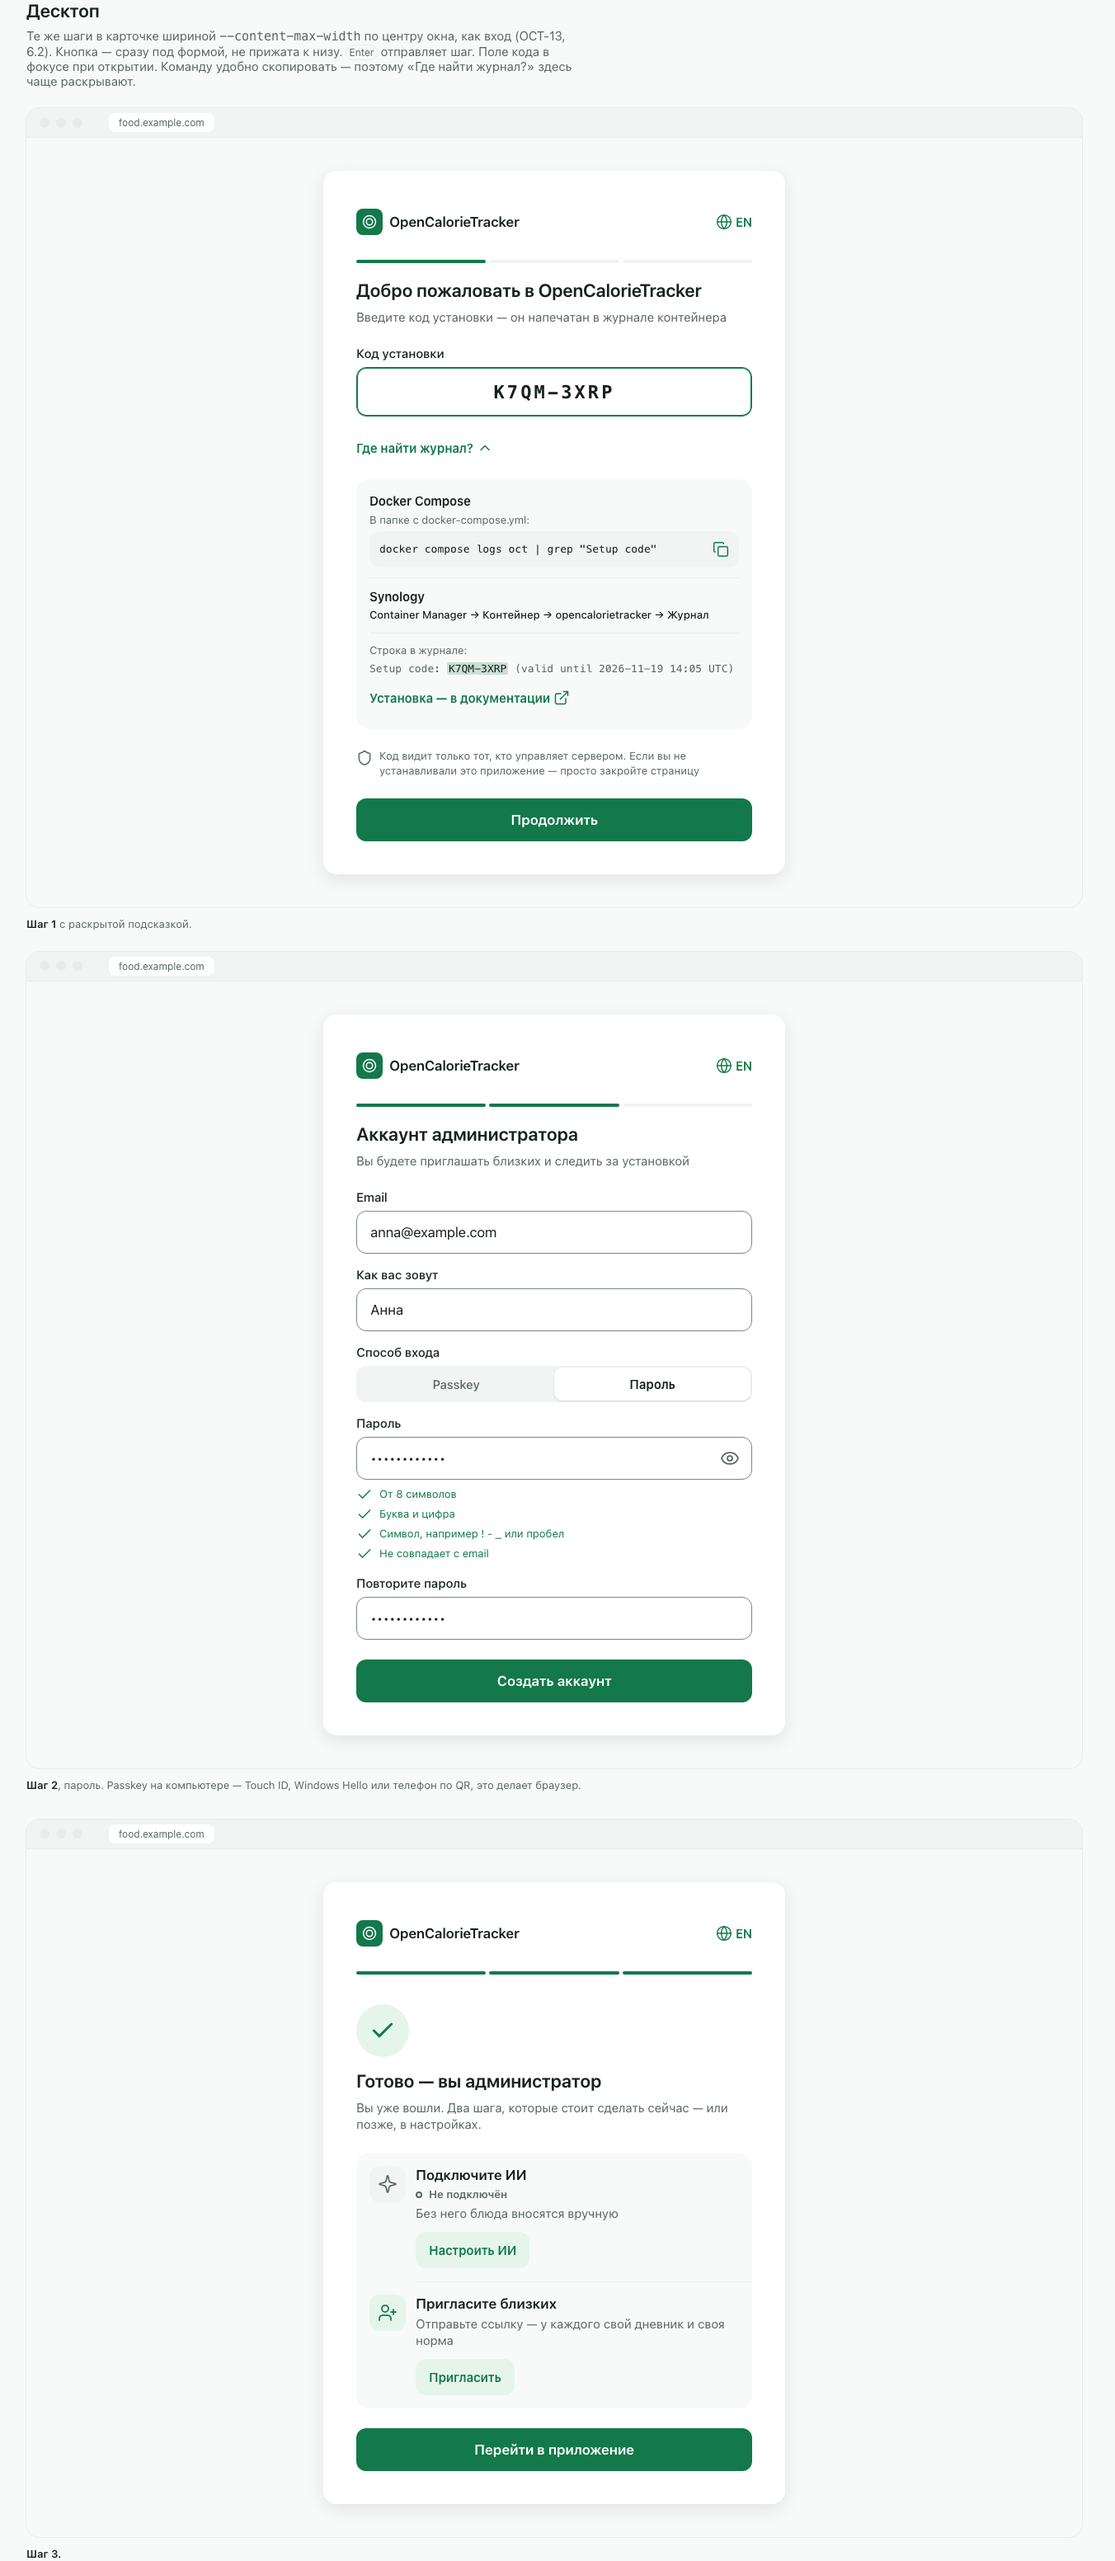
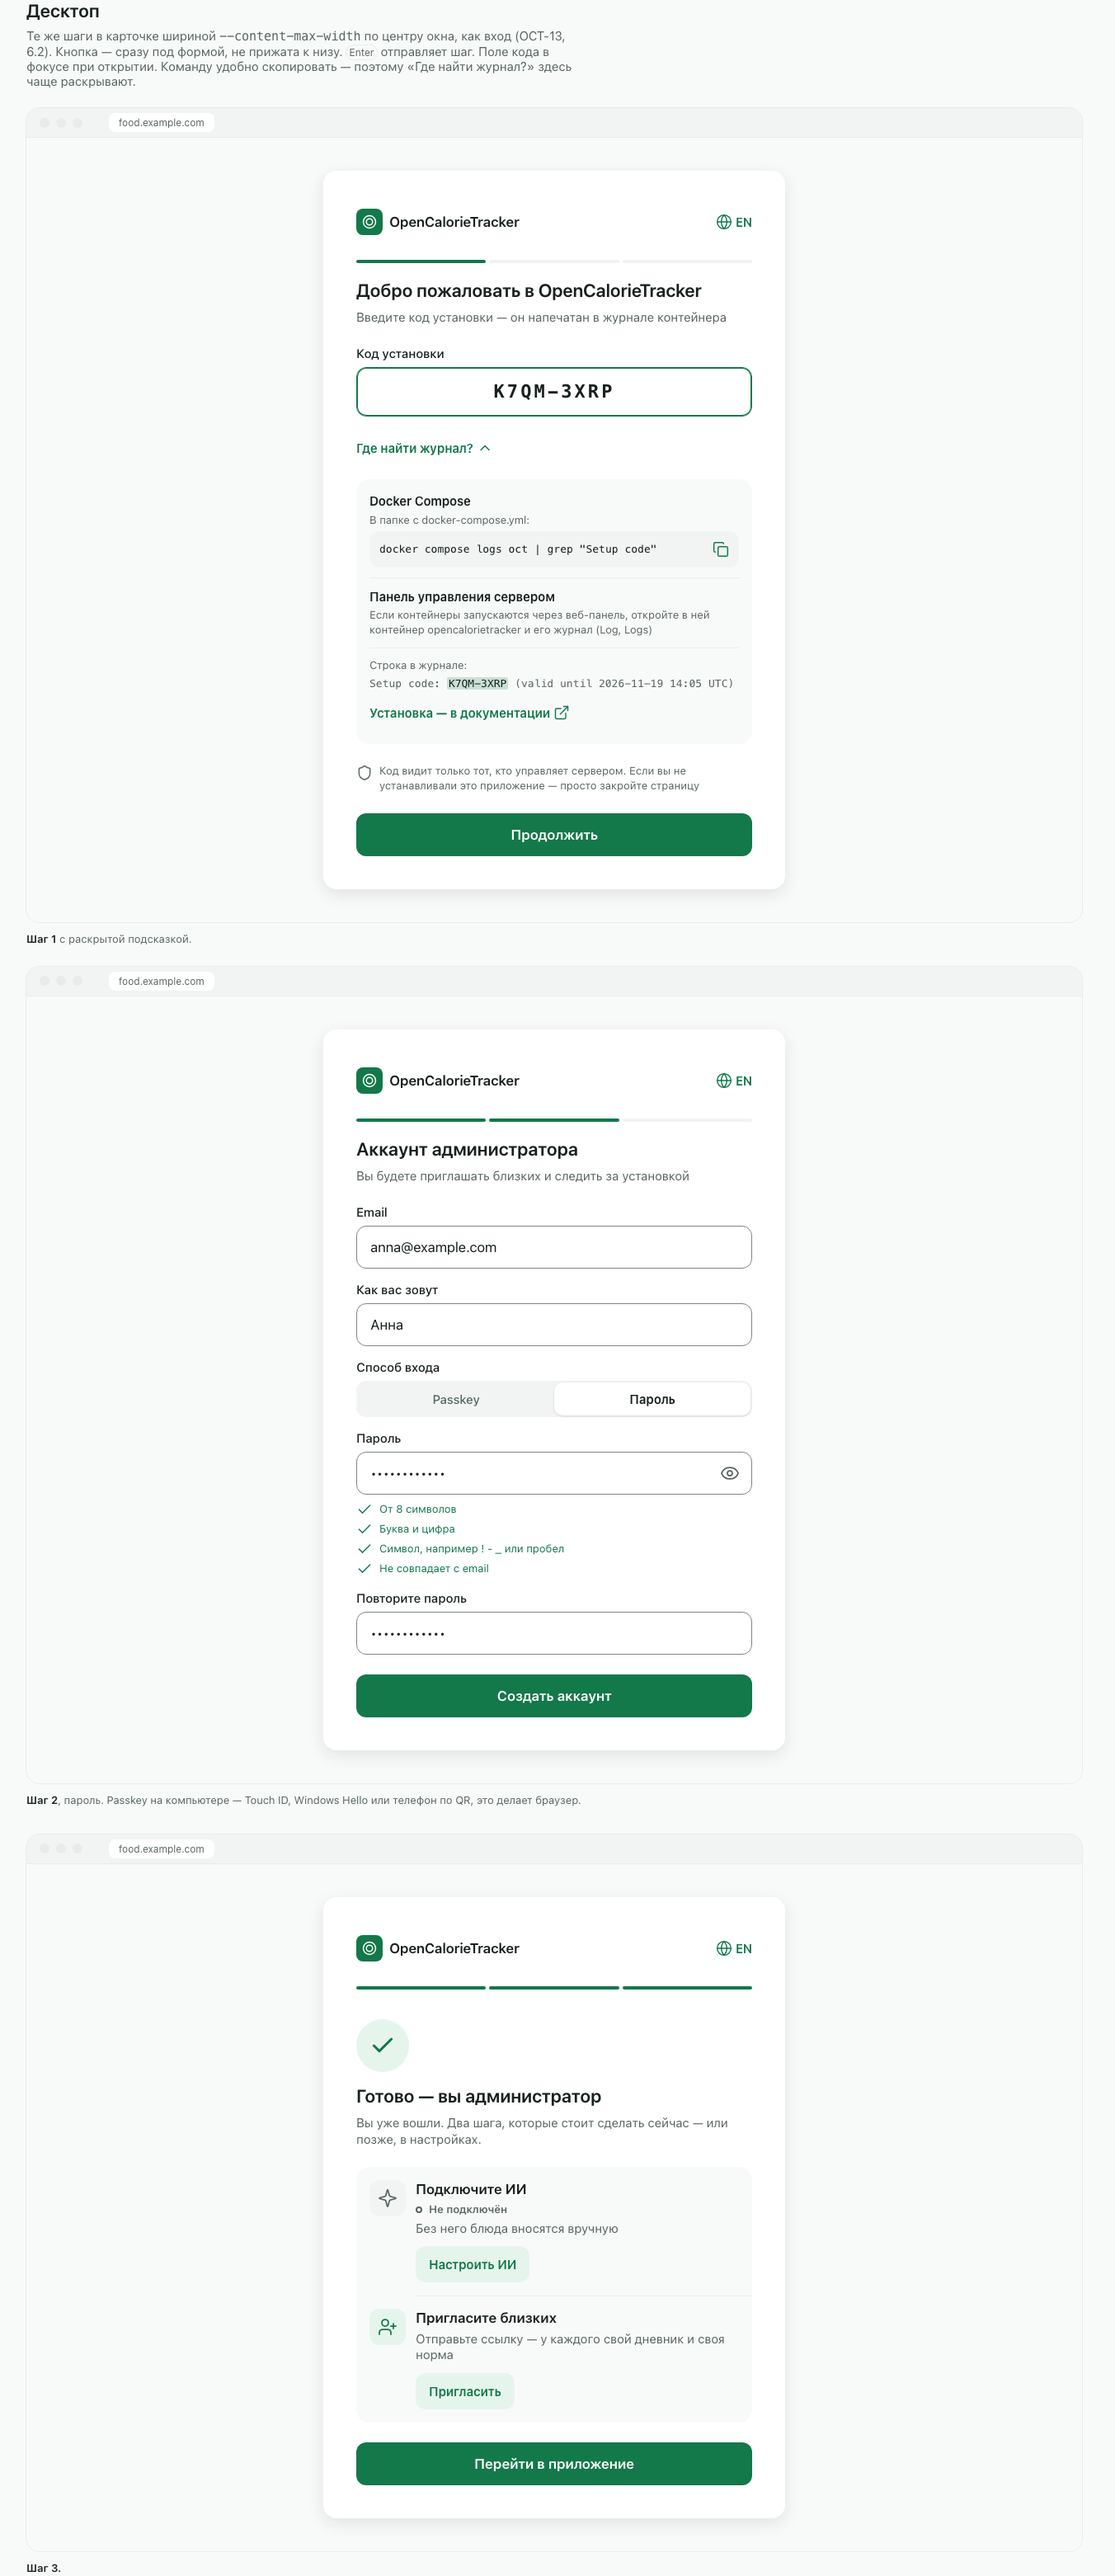
OCT-244 Setup code hint: generic web-panel instruction instead of a vendor-specific path

diff --git a/docs/design/oct-244/prototype.html b/docs/design/oct-244/prototype.html
@@ -274,7 +274,6 @@ code,.mono{font-family:var(--font-mono)}
 .cmd code{flex:1;min-width:0;white-space:pre-wrap;font-size:var(--text-footnote-size);padding:var(--space-2) 0}
 .cmd .cp{width:var(--tap-min);height:var(--tap-min);flex:none;display:grid;place-items:center;color:var(--color-accent)}
 .cmd .cp .icon{width:var(--icon-size-sm);height:var(--icon-size-sm)}
-.path{font-weight:500;color:var(--color-text)}
 .logline{font-family:var(--font-mono);color:var(--color-text-secondary);overflow-wrap:anywhere}
 .logline mark{background:var(--color-selection);color:var(--color-text);border-radius:2px;padding:0 2px}
 .ext{display:inline-flex;align-items:center;gap:var(--space-1);min-height:var(--tap-min);color:var(--color-accent);font-weight:600;font-size:var(--text-subhead-size)}
@@ -431,7 +430,7 @@ const S = {
     h1:'Добро пожаловать в OpenCalorieTracker', lead1:'Введите код установки — он напечатан в журнале контейнера',
     codeL:'Код установки', where:'Где найти журнал?',
     dockerT:'Docker Compose', dockerS:'В папке с docker-compose.yml:',
-    synoT:'Synology', synoP:'Container Manager → Контейнер → opencalorietracker → Журнал',
+    synoT:'Панель управления сервером', synoP:'Если контейнеры запускаются через веб-панель, откройте в ней контейнер opencalorietracker и его журнал (Log, Logs)',
     looks:'Строка в журнале:', docs:'Установка — в документации', copy:'Скопировать команду',
     stranger:'Код видит только тот, кто управляет сервером. Если вы не устанавливали это приложение — просто закройте страницу',
     cont:'Продолжить', checking:'Проверяем…', wrong:'Код не подошёл. Проверьте журнал контейнера', short:'В коде 8 символов: XXXX-XXXX',
@@ -462,7 +461,7 @@ const S = {
     h1:'Welcome to OpenCalorieTracker', lead1:'Enter the setup code — it’s printed in the container log',
     codeL:'Setup code', where:'Where’s the log?',
     dockerT:'Docker Compose', dockerS:'In the folder with docker-compose.yml:',
-    synoT:'Synology', synoP:'Container Manager → Container → opencalorietracker → Log',
+    synoT:'Server control panel', synoP:'If you run containers from a web panel, open the opencalorietracker container there and view its log',
     looks:'The log line:', docs:'Installation guide', copy:'Copy command',
     stranger:'Only whoever runs the server can see the code. If you didn’t install this app, just close the page',
     cont:'Continue', checking:'Checking…', wrong:'That code didn’t work. Check the container log', short:'The code has 8 characters: XXXX-XXXX',
@@ -507,7 +506,7 @@ const codeField = (o={}) => `<div class="field"><label>${T.codeL}</label><div cl
 const disc = open => `<span class="disc" role="button" aria-expanded="${!!open}">${T.where}${I('chev-d')}</span>${open ? how() : ''}`;
 const how = () => `<div class="how">
   <div class="k"><b>${T.dockerT}</b><span class="muted">${T.dockerS}</span>${cmd(CMD.logs)}</div>
-  <div class="k"><b>${T.synoT}</b><span class="path">${T.synoP}</span></div>
+  <div class="k"><b>${T.synoT}</b><span class="muted">${T.synoP}</span></div>
   <div class="k"><span class="muted">${T.looks}</span><span class="logline">Setup code: <mark>K7QM-3XRP</mark> (valid until 2026-11-19 14:05 UTC)</span><a class="ext">${T.docs}${I('ext')}</a></div></div>`;
 const stranger = () => `<p class="stranger">${I('shield')}<span>${T.stranger}</span></p>`;
 const btn = (txt, o={}) => o.busy ? `<button class="btn btn-primary" disabled aria-busy="true"><span class="spinner"></span>${txt}</button>` : o.dis ? `<button class="btn" disabled>${o.icon ? I(o.icon) : ''}${txt}</button>` : `<button class="btn btn-primary">${o.icon ? I(o.icon) : ''}${txt}</button>`;
